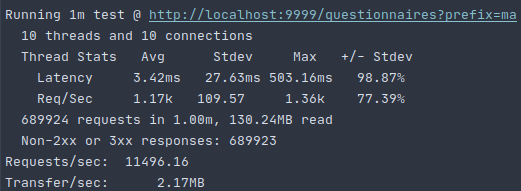
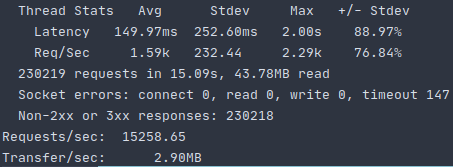
tarantool replication: update stress test results

diff --git a/replication/mysql_and_tarantool/backend/internal/app/app.go b/replication/mysql_and_tarantool/backend/internal/app/app.go
@@ -60,8 +60,8 @@ func NewApp(cfg *config.Config, opts ...Option) *App {
 // Run lunch application.
 func (a *App) Run(mysqlConn *sql.DB) {
 	authSvc := implementation.NewAuthService(implementation.NewUserRepository(mysqlConn), a.cfg.JWT)
-	//socialSvc := implementation.NewSocialService(implementation.NewUserRepository(mysqlConn))
-	socialSvc := implementation.NewSocialService(implementation.NewTarantoolRepository(a.tConn))
+	socialSvc := implementation.NewSocialService(implementation.NewUserRepository(mysqlConn))
+	//socialSvc := implementation.NewSocialService(implementation.NewTarantoolRepository(a.tConn))
 	messengerSvc := implementation.NewMessengerService(
 		implementation.NewUserRepository(mysqlConn),
 		implementation.NewMessengerRepository(mysqlConn))

diff --git a/replication/mysql_and_tarantool/README.md b/replication/mysql_and_tarantool/README.md
@@ -414,7 +414,7 @@ curl -X POST -H "Content-Type: application/json" \
     http://localhost:9999/auth/sign-up
 export ACCESS_TOKEN=$(curl -X POST -H "Content-Type: application/json" \
     -d '{"email": "user@user.ru", "password": "1234567890"}' \
-    http://localhost:9999/auth/sign-in | jq '.access_token')
+    http://localhost:9999/auth/sign-in | jq -r '.access_token')
 ```
 
 <a name="stress-testing-implementation"></a>
